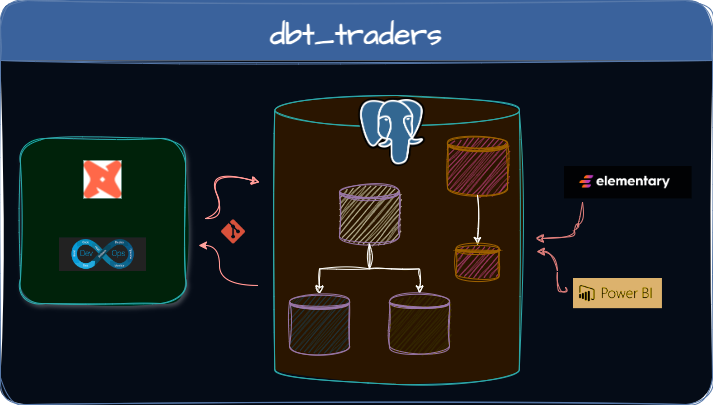
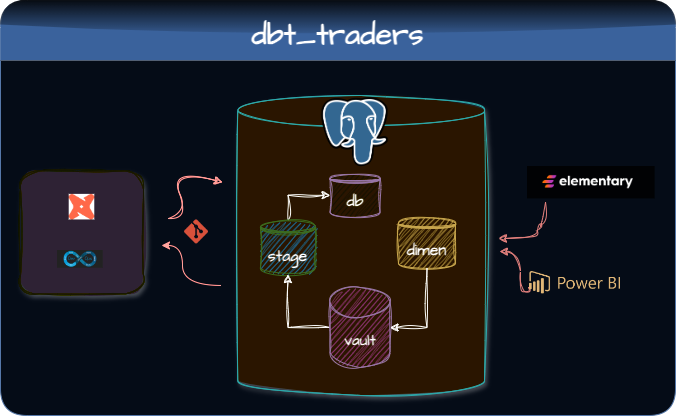
Fixing vlt and testing sqlfluff

diff --git a/README.md b/README.md
@@ -32,7 +32,7 @@
 poetry shell 
 ```
 ```shell
-poetry run pre-commit run sqlfluff-fix --files models/staging/stg_northwind__suppliers.sql
+poetry run pre-commit run sqlfluff-fix --files /RELATIVE_PATH
 ```
 
 [database_src]: https://github.com/AmmarSahyoun/dbt_traders/tree/main/database_src
